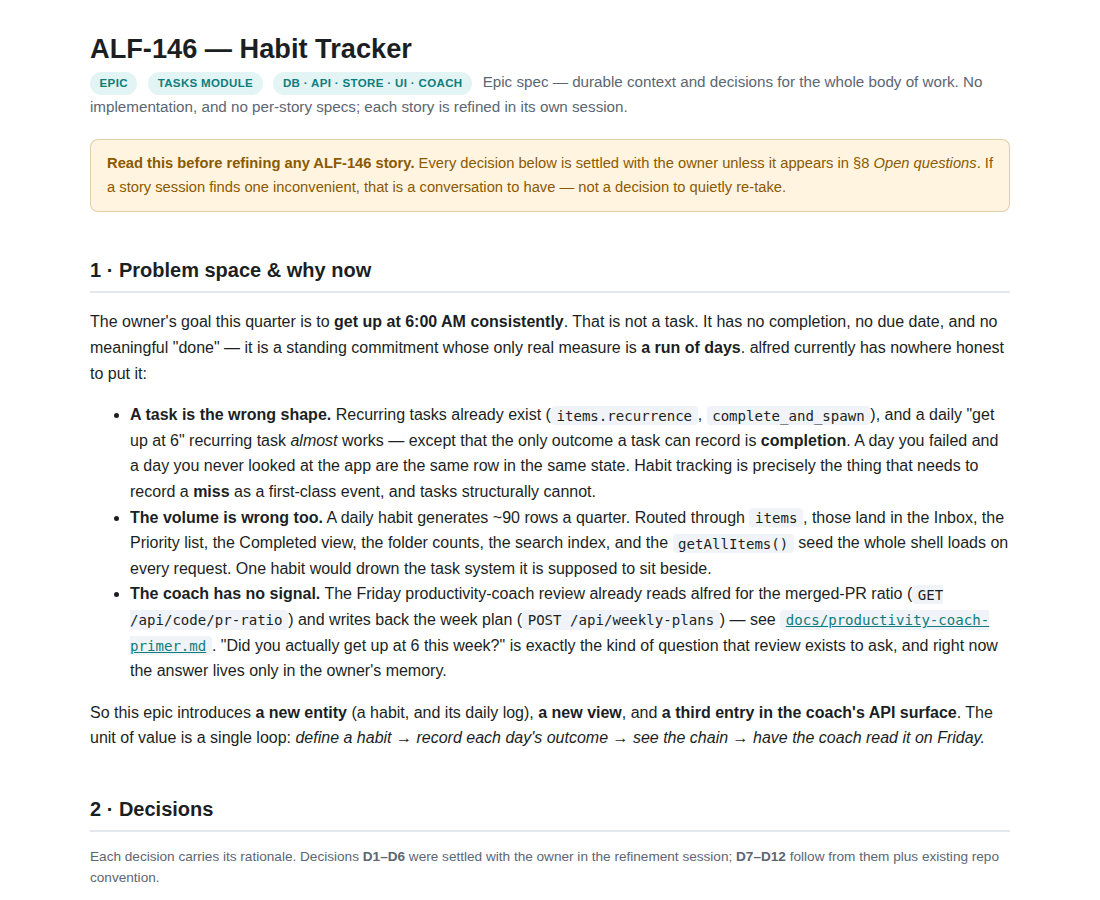
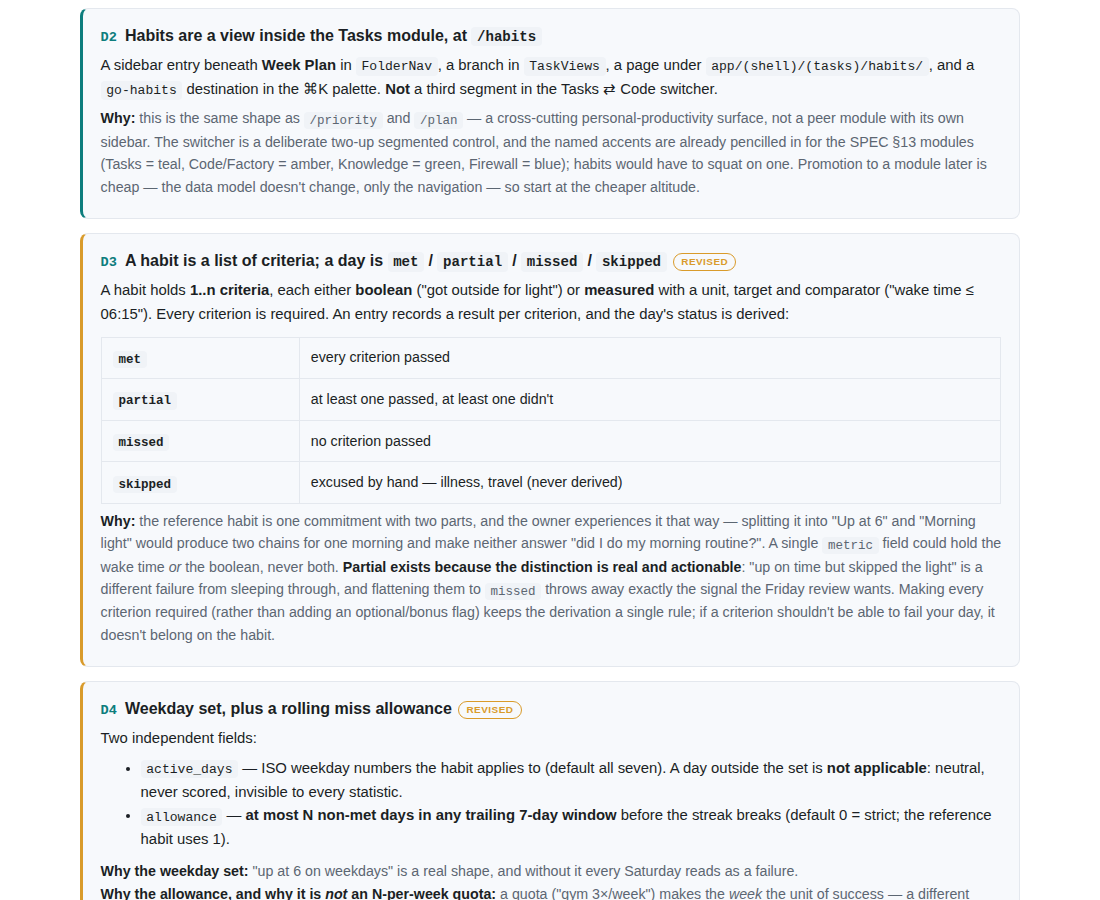
docs(demos): recapture the alf-146 epic spec after round two

Changed region(s): [[0.0618, 0.28, 0.9273, 1.0], [0.0618, 0.0311, 0.9273, 0.2489]]

diff --git a/docs/demos/alf-146-habit-tracker-epic/epic-spec.md b/docs/demos/alf-146-habit-tracker-epic/epic-spec.md
@@ -4,39 +4,40 @@ branch: claude/habit-tracker-epic-jjqwn5
 
 # ALF-146 — Habit Tracker epic spec
 
-*2026-07-27T17:01:49.736Z*
+*2026-07-28T03:12:43.530Z*
 
 This is an **epic-refinement** branch: the deliverable is the epic spec at `docs/specs/epics/ALF-146.html`, not app behavior. Nothing under `frontend/`, `workers/` or `database/` changed. The evidence below is that artifact — the self-contained HTML page a reviewer opens via the PR's htmlpreview link — rendered in a browser.
 
-## The document
+The spec has been through **two refinement rounds**. Round two reopened four decisions after the owner pushed back; those carry a `revised` tag in the document so the history is visible without a second file.
 
-Problem space — why a habit is not a task, and why routing one through `items` would drown the task system.
+## The revised decisions
+
+Round two changed what a habit *is*. A habit now holds **1..n criteria** (the reference habit is "up by 6:15" **and** "outside for light", which succeed or fail as one morning), the day gains a **partial** state, and the streak gains a **rolling miss allowance** — which forced a rethink of what an unlogged day does.
 
 ![](epic-spec-image-1.png)
 
-Each settled decision carries its rationale, and §3 pins the data model, the streak rules, and the data flow that later stories build against.
+## The streak engine
+
+The allowance made the streak rules the riskiest logic in the epic, so §3 pins them precisely — including the rule that collapses four cases into one sentence: anything that isn't `met` or `skipped` spends allowance, so *forgetting* to log costs exactly what *failing* costs.
 
 ![](epic-spec-image-2.png)
 
-## §5 — the interactive UI picker
+## §6 — the interactive UI picker
 
-The one decision deliberately left open is the UI. §5 of the spec is a live picker: four independent option groups, each with working mockups, and a metadata block at the bottom that the owner copies and pastes back. Toggling is **pure CSS** (`:has()` on the checked radio), so it works with JavaScript disabled and renders faithfully through htmlpreview — only the Copy button needs JS.
+The UI is the one decision deliberately left open. Round one settled the shape (a grid, big cells, tap-to-log, values on tap); round two drops the layout group — it wasn't independent of the visualization — and opens five that are: grid orientation, streak connector style, the day editor, where the six stats live, and how the formation stage is shown.
 
-Here it is in its default state (contribution grid / check-off list / stacked cards / in-cell values):
+Toggling is **pure CSS** (`:has()` on the checked radio), so it works with JavaScript disabled and renders faithfully through htmlpreview; only the Copy button needs JS. Default state:
 
 ![](epic-spec-image-3.png)
 
-And after clicking a different radio in **every** group — `#h-strip`, `#t-cell`, `#l-table`, `#m-hover`. Every mockup swapped, and the metadata block at the bottom re-wrote itself to match:
+And after clicking a different radio in **every one** of the five groups — `#o-gh`, `#k-rail`, `#g-seg`, `#s-chips`, `#f-ladder`. Every mockup swapped, and the metadata block at the bottom rewrote itself to match:
 
 ![](epic-spec-image-4.png)
 
-Reading the block out of the live DOM after those four clicks returns exactly the selections — which is what makes it copy-pasteable back into the thread:
+Reading the block out of the live DOM after those five clicks returns exactly the selections, which is what makes it copy-pasteable back into the thread: `orientation: weeks-as-columns` · `connector: under-rail` · `day-editor: verdict-first` · `stats: header-chips` · `formation: four-stage-ladder`.
 
-`alfred-habits-ui` · `history: chain-strip` · `today-logging: click-the-cell` ·
-`layout: dense-table` · `measurement: on-hover`
+The mockups are behaviourally faithful, not decorative: a connector is only drawn between two days the streak actually links, the links either side of a forgiven day render dashed, and a real break (allowance already spent) shows no connector at all.
 
 ## What this branch does not contain
 
-No migration, no route handler, no component — this is the epic spec plus this demo doc. The habit
-tables, the streak engine, the API and the UI are the ten story slices sketched in §7, each refined
-and built in its own session.
+No migration, no route handler, no component — this is the epic spec plus this demo doc. The habit tables, the criterion evaluator, the streak engine, the API and the UI are the twelve story slices sketched in §8, each refined and built in its own session.
